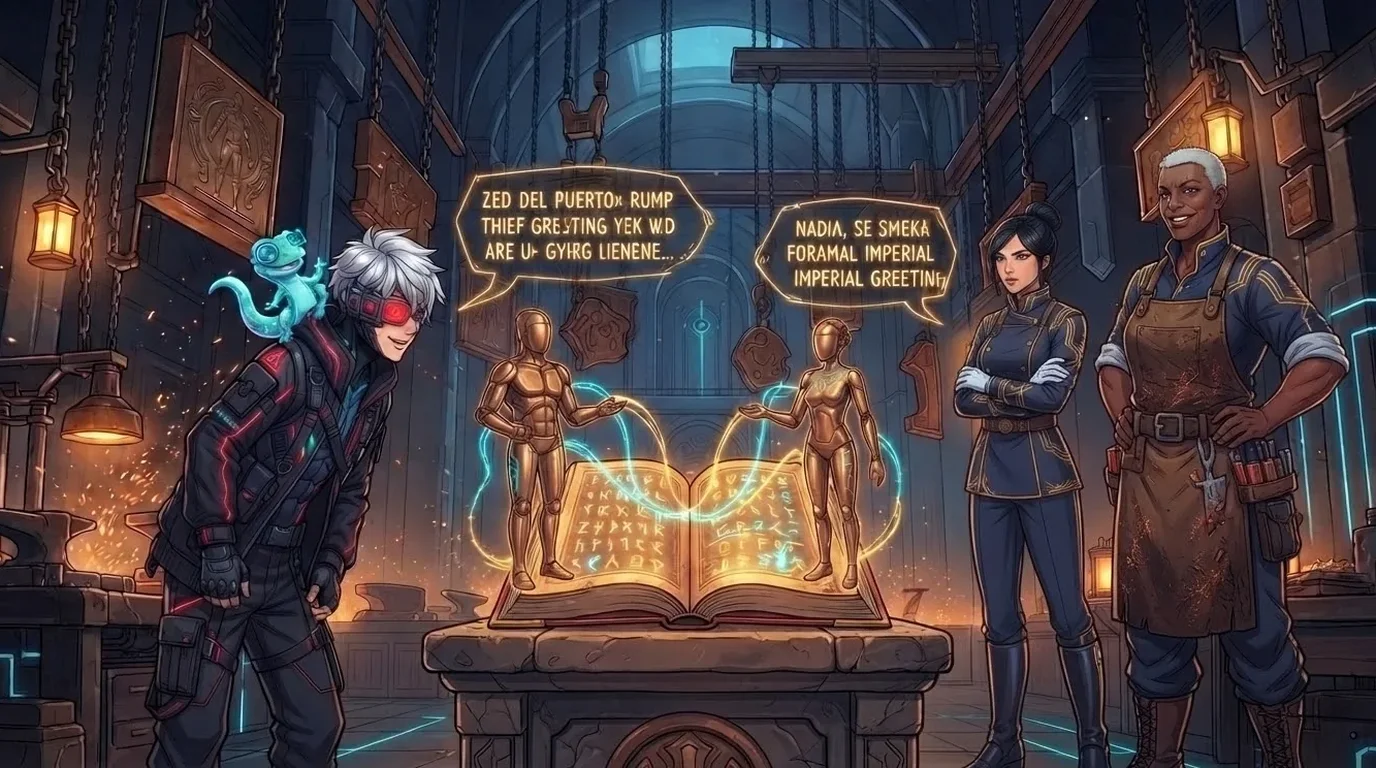
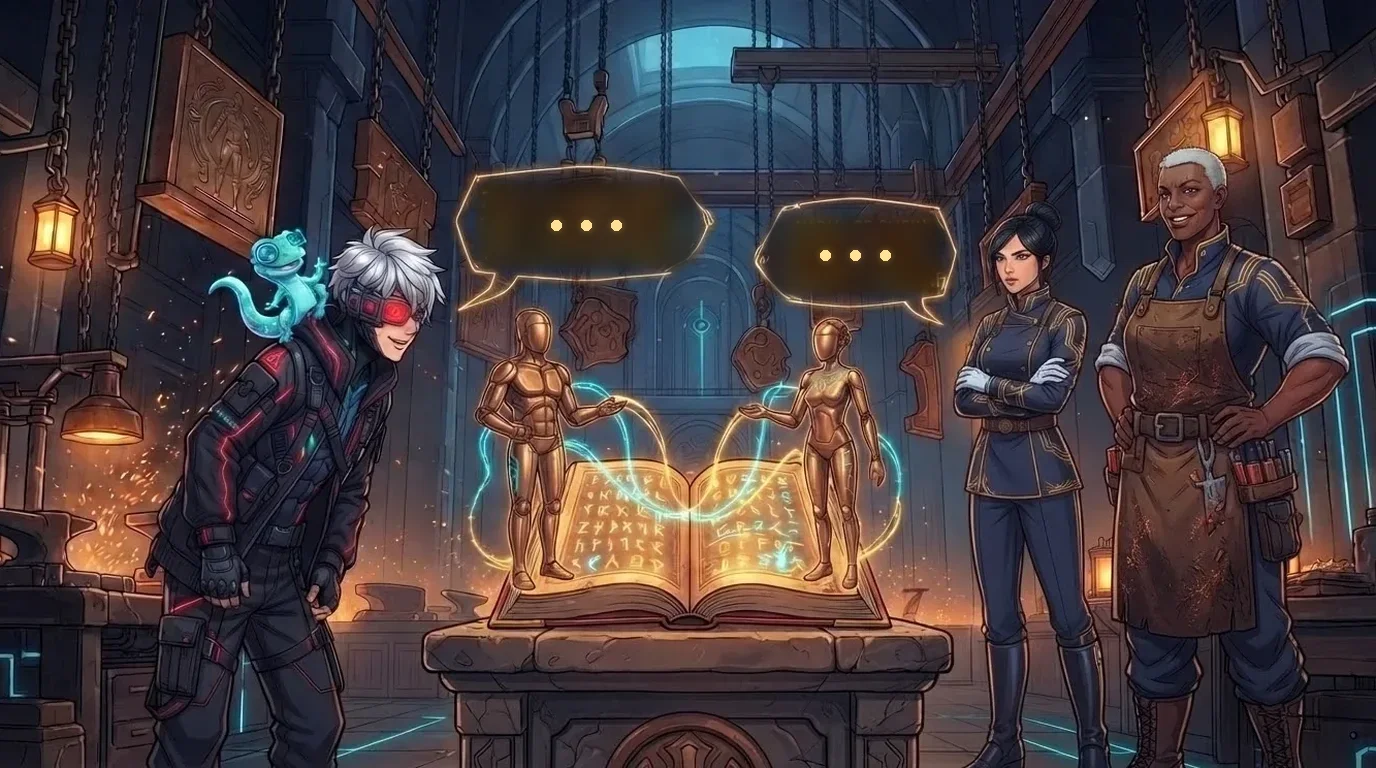
content(python, java): 24 escenas de Python (R01-N02 a R01-N05) bajadas de Stitch y sus referencias; R02-N01-P3 de Java con los globos sin letras

Changed region(s): [[0.3438, 0.2188, 0.5312, 0.3438], [0.5625, 0.2812, 0.6875, 0.375]]

diff --git a/scripts/escenas/pendientes.py b/scripts/escenas/pendientes.py
@@ -159,6 +159,28 @@ REFS = {
              'Teo es un chico flaco y bajo para su edad, apenas más bajo que Iris, de pelo negro enrulado.'),
         ],
     },
+    'python': {
+        # R01-N02 a R01-N05 ya estaban hechas en este proyecto y se bajaron el 2026-10-14.
+        # Sin referencia todavía: Sila, Maese Horas, el Ermitaño, la Copista, Baldo y la Hidra (generar sus hojas acá antes).
+        'project': '16828689365976730624',
+        'region': 'El Valle de la Serpiente',
+        'ambiente': 'en un valle de bosques y ruinas de piedra con musgo, ríos que brillan verde, faroles verdes y runas encendidas',
+        'ambientes': {
+            '02-objetos-errores.md': 'en la Gran Biblioteca del Valle, con estantes de piedra altísimos, libros encadenados, faroles verdes y runas',
+            '03-iteracion-calidad.md': 'en la Torre del Reloj del Valle, con engranajes de piedra y bronce, péndulos, escaleras de caracol y faroles verdes',
+        },
+        'chars': [
+            (r'\bMia\b', 'Mia', ['5963293020836080820'], 'Mia es bajita (1,55 m) y delgada.'),
+            (r'\bTilo\b', 'Tilo', ['5696938930910017018'], 'Tilo es un chico bajo, flaco y fibroso, descalzo.'),
+            (r'Ofidia', 'Ofidia', ['10928700517117951865'], 'Ofidia es muy alta (1,90 m) y esbelta: le saca más de una cabeza a Mia.'),
+            (r'Gheco|gecko', 'Gheco', ['15690829756280996174'], 'Gheco es un gecko chiquito, del tamaño de una mano.'),
+            (r'Guardi[aá]n del Puente', 'el Guardián del Puente', ['13111980321235167624'], ''),
+            (r'Archivista', 'el Archivista Corrupto', ['76f4476e7b8e459fa75b72cbe7906fbb'], ''),
+            (r'G[oó]lem', 'el Gólem del Reloj', ['11d43dda059d4a2b8de8c6e1c8077d0c'], ''),
+            (r'Gremio', 'la Maestra del Gremio de Artífices', ['af588d75f8504efc87b765ab32bb8a30'], ''),
+            (r'[Cc]ocinera', 'la Cocinera de la Torre', ['0286d6c0514242c587dfedb64881bbd0'], ''),
+        ],
+    },
     'java': {
         # Las 76 primeras (R00 a R02-N09) ya estaban hechas en este proyecto y se bajaron el 2026-10-14.
         'project': '7393382501138179740',
